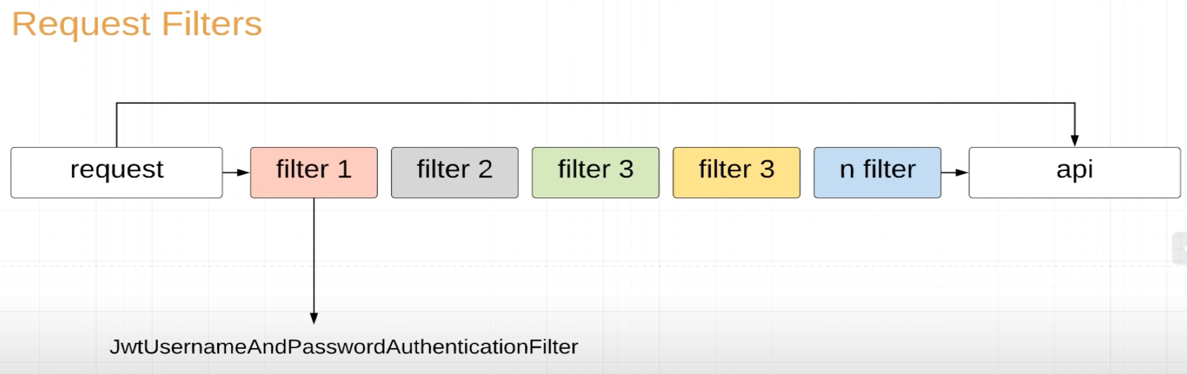
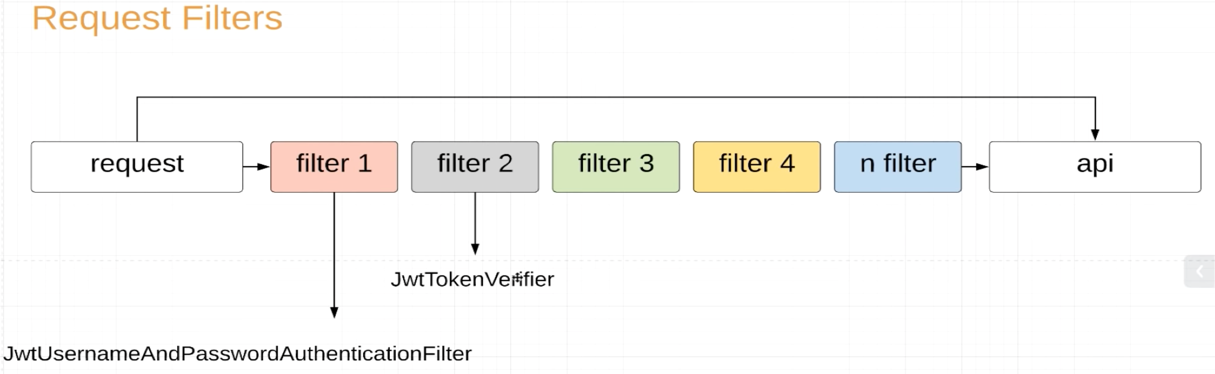
Jwt auth. Jwt filter verifier implementation.

diff --git a/src/main/java/com/skalashynski/spring/springboot/jwt/JwtTokenVerifier.java b/src/main/java/com/skalashynski/spring/springboot/jwt/JwtTokenVerifier.java
@@ -1,0 +1,62 @@
+package com.skalashynski.spring.springboot.jwt;
+
+import com.google.common.base.Strings;
+import io.jsonwebtoken.Claims;
+import io.jsonwebtoken.Jws;
+import io.jsonwebtoken.JwtException;
+import io.jsonwebtoken.Jwts;
+import io.jsonwebtoken.security.Keys;
+import org.springframework.security.authentication.UsernamePasswordAuthenticationToken;
+import org.springframework.security.core.Authentication;
+import org.springframework.security.core.authority.SimpleGrantedAuthority;
+import org.springframework.security.core.context.SecurityContextHolder;
+import org.springframework.web.filter.OncePerRequestFilter;
+
+import javax.servlet.FilterChain;
+import javax.servlet.ServletException;
+import javax.servlet.http.HttpServletRequest;
+import javax.servlet.http.HttpServletResponse;
+import java.io.IOException;
+import java.util.List;
+import java.util.Map;
+import java.util.Set;
+import java.util.stream.Collectors;
+
+import static com.skalashynski.spring.springboot.jwt.JwtUsernameAndPasswordAuthenticationFilter.SECRET_KEY;
+
+/**
+ * this filter is executed once per request
+ */
+public class JwtTokenVerifier extends OncePerRequestFilter {
+
+    @Override
+    protected void doFilterInternal(HttpServletRequest httpServletRequest,
+                                    HttpServletResponse httpServletResponse,
+                                    FilterChain filterChain) throws ServletException, IOException {
+        String authorizationHeader = httpServletRequest.getHeader("Authorization");
+        if (Strings.isNullOrEmpty(authorizationHeader) || !authorizationHeader.startsWith("Bearer ")) {
+            filterChain.doFilter(httpServletRequest, httpServletResponse);
+            return;
+        }
+        String token = authorizationHeader.replace("Bearer ", "");
+        try {
+            Jws<Claims> claimsJws = Jwts.parser()
+                    .setSigningKey(Keys.hmacShaKeyFor(SECRET_KEY.getBytes()))
+                    .parseClaimsJws(token);
+            Claims body = claimsJws.getBody();
+            String username = body.getSubject();
+            List<Map<String, String>> authorities = (List<Map<String, String>>) body.get("authorities");
+
+            Set<SimpleGrantedAuthority> simpleGrantedAuthorities = authorities
+                    .stream().map(a -> new SimpleGrantedAuthority(a.get("authority"))).collect(Collectors.toSet());
+
+            Authentication authentication = new UsernamePasswordAuthenticationToken(
+                    username, null, simpleGrantedAuthorities
+            );
+            SecurityContextHolder.getContext().setAuthentication(authentication);
+        } catch (JwtException e) {
+            throw new IllegalStateException(String.format("Token %s can't be truest", token), e);
+        }
+        filterChain.doFilter(httpServletRequest, httpServletResponse);
+    }
+}

diff --git a/src/main/java/com/skalashynski/spring/springboot/jwt/JwtUsernameAndPasswordAuthenticationFilter.java b/src/main/java/com/skalashynski/spring/springboot/jwt/JwtUsernameAndPasswordAuthenticationFilter.java
@@ -21,6 +21,7 @@ import java.util.Date;
 @AllArgsConstructor
 public class JwtUsernameAndPasswordAuthenticationFilter extends UsernamePasswordAuthenticationFilter {
     private final AuthenticationManager authenticationManager;
+    public static final String SECRET_KEY = "secure_secure_secure_secure_secure_secure_secure_secure_secure_secure_secure_secure_secure";
 
     @Override
     public Authentication attemptAuthentication(HttpServletRequest request, HttpServletResponse response) throws AuthenticationException {
@@ -43,13 +44,12 @@ public class JwtUsernameAndPasswordAuthenticationFilter extends UsernamePassword
                                             HttpServletResponse response,
                                             FilterChain chain,
                                             Authentication authResult) throws IOException, ServletException {
-        String key = "secure_secure_secure_secure_secure_secure_secure_secure_secure_secure_secure_secure_secure";
         String token = Jwts.builder()
                 .setSubject(authResult.getName())
                 .claim("authorities", authResult.getAuthorities())
                 .setIssuedAt(new Date())
                 .setExpiration(java.sql.Date.valueOf(LocalDate.now().plusWeeks(2)))
-                .signWith(Keys.hmacShaKeyFor(key.getBytes()))
+                .signWith(Keys.hmacShaKeyFor(SECRET_KEY.getBytes()))
                 .compact();
         response.addHeader("Authorization", "Bearer " + token);
     }

diff --git a/src/main/java/com/skalashynski/spring/springboot/config/JwtSecurityConfiguration.java b/src/main/java/com/skalashynski/spring/springboot/config/JwtSecurityConfiguration.java
@@ -1,5 +1,6 @@
 package com.skalashynski.spring.springboot.config;
 
+import com.skalashynski.spring.springboot.jwt.JwtTokenVerifier;
 import com.skalashynski.spring.springboot.jwt.JwtUsernameAndPasswordAuthenticationFilter;
 import lombok.AllArgsConstructor;
 import org.springframework.context.annotation.Configuration;
@@ -31,6 +32,7 @@ public class JwtSecurityConfiguration extends WebSecurityConfigurerAdapter {
                     .sessionCreationPolicy(SessionCreationPolicy.STATELESS)
                 .and()
                 .addFilter(new JwtUsernameAndPasswordAuthenticationFilter(authenticationManager()))
+                .addFilterAfter(new JwtTokenVerifier(), JwtUsernameAndPasswordAuthenticationFilter.class)
                 .authorizeRequests()
                 .antMatchers("/", "index", "/css/*", "/js/*").permitAll()
                 .antMatchers("/api/**").hasRole(STUDENT.name())

diff --git a/src/main/java/com/skalashynski/spring/springboot/controller/StudentManagementController.java b/src/main/java/com/skalashynski/spring/springboot/controller/StudentManagementController.java
@@ -14,7 +14,7 @@ import java.util.Map;
 import static org.springframework.http.MediaType.APPLICATION_JSON_VALUE;
 
 @RestController
-@RequestMapping("management/api/v1/student")
+@RequestMapping("/management/api/v1/student")
 public class StudentManagementController {
     private static final Logger LOGGER = LoggerFactory.getLogger(StudentManagementController.class);
 
